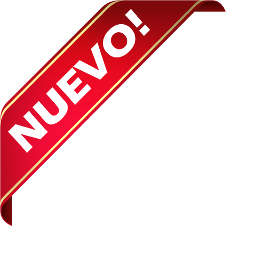
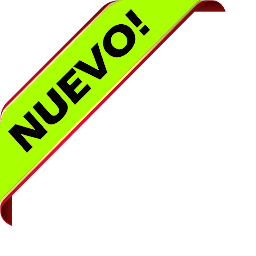
Última actualización con etiquetas nuevas para los tableros

Changed region(s): [[0.0, 0.0, 0.7812, 0.7812]]

diff --git a/includes/js/dyp.js b/includes/js/dyp.js
@@ -210,7 +210,7 @@ $(document).ready(function(){
 				} 
 				if(suma == suma2){
 					if(!$('#panel01').find("img").length){ //en panel historico de pagos por linea de captura
-						$('#panel01').append("<img src='includes/img/nuevo.png' class='bandNew'></img>");
+						$('#panel01').append("<img src='includes/img/nuevoblue.png' class='bandNew'></img>");
 						tiempo1=Date.now() / 1000 | 0;
 					}
 				}
